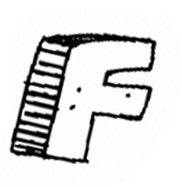
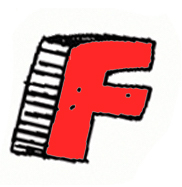
Add files via upload

Changed region(s): [[0.2473, 0.2139, 0.8516, 0.8556]]

diff --git a/link/f.html b/link/f.html
@@ -1,0 +1,13 @@
+<!DOCTYPE html>
+<html>
+<head>
+	<title>F</title>
+</head>
+<body>
+	<h2>F is for Friends</h2>
+	<p>fabric  fabricate  fabrication  fabulous  facade  face  faceless  face-lift  face-saving  facet  facetious  facetiously  face value  facial  facile  facilitate  facilities  facility  facsimile  fact  faction  factor  factory  factual  faculty  fad  fade Fahrenheit  fail  failing  fail-safe  failure  faint  fair  fairground  fairly  fairy  fairy tale  fait accompli  faith  faithful  faithfully  faithfulness  faithless  fake  falcon  fall  fallacious  fallacy  fallen  fall guy  fallible  fallout  false  falsehood  falsetto  falsification  falsify  falsity  falter  faltering  fame  famed  familiar  familiarity  familiarize  familiarly  <a href="family.html">family</a>  family doctor  family name  family planning  family room  family tree  family values  famine  famished  famous  famously  fan  fanatic  fanatical  fanatically  fanaticism  fanciful  fancy  fanfare  fang  fan mail  fanny  fantasize  fantastic  fantastically  fantasy  far  faraway  farce  farcical  fare  Far East  farewell  far-fetched  far-flung  farm  farmer  farmers' market  farmhouse  farming  farmyard  far-off  far-out  far-reaching  farsighted  fart  farther  farthest  fascinate  fascinating  fascination  fascism  fascist  <a href="fashion.html">fashion</a>  fashionable  fashionably  fast  fasten  fastener  fastening  fast food  fast-forward  fastidious  fast lane  fat  fatal  fatalism  fatalistic  fatality  fatally  fate  fated  fateful  Father  father  fatherhood  father-in-law  fatherly fetus  feud  feudal  feudalism  fever  feverish  feverishly  few  fez  fiance  fiancee  fiasco  fiat  fib  fibber  fiber  fiberglass  fibrous  fickle  fiction  fictio\olks  folksy  follicle  follow  follower  following  follow-up  folly  foment  fond  fondle  fondly  fondness  font  food  food poisoning  food processor  food stamp  foodstuff  fool  foolhardy  foolish  foolishly  foolishness  foolproof  foot  footage  football  footbridge  foothill  foothold  footing  footlights  footlocker  footloose  footnote  footpath  footprint  footsie  footstep  <a href="footwear.html">footwear</a>  footwork  for  forage  foray  forbade  forbear  forbearance  forbid  forbidden  forbidding  forbore  forborne  force  forced  force-fed  force-feed  forceful  forcefully  forceps  forcible  forcibly  ford  fore  forearm  foreboding  forecast  foreclose  foreclosure  forefinger  forefront  foreground  forehand  forehead  foreign  foreigner  foreign exchange  foreman  foremost  forensic  foreplay  forerunner  foresaw  foresee  foreseeable  foreseen  foreshadow  foresight  foreskin  forest  forestall  forestry  foretaste  foretell  forethought  foretold  forever  forewarn  foreword  forfeit  forgave  forge  forger  fornicate  fornication  forsake  forsaken  forsook  forswear  forswore  forsworn  fort  forte  forth  forthcoming  forthright  fortieth  fortification  fortify  fortitude  fortress  fortuitous  fortunate  fortunately  fortune  fortune cookie  fortune teller  forty  forum  forward  forwarding address  forward-looking  forwards  forwent  fossil  fossil fuel  fossilize  foster  fought  foul  foul ball  foul play  found  foundation  founder  founding father  foundry  <a href="fountain.html">fountain</a>  fountain pen  four  four-leaf clover  four-letter word  fourteen  fourteenth  fourth  fourthly  Fourth of July  four-wheel drive  fowl  fox  foxhole  foxtrot  foxy  foyer  fracas  fraction  fractional  fractionally  fractious  fracture  fragile  fragility  fragment  fragrance  fragrant  frail  frailty  frame  framework  franc  franchise  frank  frankfurter  frankly  frankness  frantic  frantically  frat  fraternal  fraternity  fraternize  fraud  fraudulent  fraudulently  fraught  fray  freak  freak out  freckle  freckled  free  freebie  freedom  free enterprise  free-for-all  freehand  freelance  freelancer  freeload  freeloader  freely  free market  free-range  free speech  freethinker  freethinking  freeway  freewheeling  free will  freeze  freeze-dried  freezer  freezing  freezing point  freight  freighter  freight train  fries  frieze  frigate  fright  frighten  frightened  frightening  frighteningly  frightful  frigid  frigidity  frill  frilly  fringe  fringe benefit  Frisbee  frisk  frisky  fritter  frivolity  frivolous  frivolously  frizz  frizzy  fro  frog  frolic  from  frond  front  frontage  frontal  frontier  frontiers  front man  frost  frostbite  frostbitten  frosted  frosting  frosty  froth  frothy  frown  froze  frozen  frugal  frugality  frugally  fruit  fruitcake  <a href="football.html">football</a> fruit fly  fruitful  fruition  fruitless  fruitlessly  fruits  fruity  frumpy  frustrate  frustrated  frustrating  frustration  fry  frying pan  ft.  fuck  fucked up  fucker  fucking  fudge  fuel  fugitive  fulcrum  fulfill  fulfilled  fulfilling  fulfillment  full  full-blown  full-fledged  full house  full-length  full moon  full-scale  full-time  fully  fumble  fume  fumes  fumigate  fumigation  fun  function  functional  functionally  fund  fundamental  fundamentalism  fundamentalist  fundamentally  fundamentals  funding  fund-raising  funds  funeral  funeral director  funeral home  fungal  fungi  fungus  funk  funky  funnel  funnel cloud  funnies  funnily  funny  funny bone  fur  furious  furiously  furl  furlong  furnace  furnish  furnished  furnishings  furniture  furor  furrow  furry  further  furthermore  furthest  furtive  furtively  fury  fuse  fuse box  fuselage  fusion  fuss  fussy  futile  futilely  future  future tense  futuristic  fuzz  fuzzy  FYI      
+</p>
+<br>  
+	<a href="index.html"><img src="backbutton.png"></a>  
+</body>
+</html>

diff --git a/link/i.html b/link/i.html
@@ -1,0 +1,13 @@
+<!DOCTYPE html>
+<html>
+<head>
+	<title>I</title>
+</head>
+<body>
+	<h2>I is for Injuries</h2>
+	<p>iceberg  icebox  icebreaker  ice cap  ice-cold  ice cream  ice-cream cone  ice cube  iced  ice hockey  <a href="iceskate.html">ice skate</a>  ice skater  icicle  icing  icky  icon  icy  ID  I'd  ID card  idea  ideal  idealism  idealist  idealistic  idealize  ideally  identical  identically  identical twin  identification  identify  identity  ideological  ideology  idiocy  idiom  idiomatic  idiosyncrasy  idiosyncratic  idiot  idiotic  idiotically  idle  idleness  idly  idol  idolatrous  idolatry  idolize  idyllic  i.e.  if  iffy  igloo  ignite  ignition  ignorance  ignorant  ignore  iguana  ill  I'll  illegal  illegally  illegible  illegibly  illegitimacy  illegitimate  ill-equipped  ill-fated  illicit  illiteracy  illiterate  ill-mannered  illness  illogical  illogically  illuminate  illuminating  illumination  illusion  illusory  illustrate  illustration  illustrative  illustrator  illustrious  I'm  image  imagery  imaginable  imaginary  imagination  imaginative  imaginatively  imagine  imbalance  <a href="imbalanced.html">imbalanced</a>  imbecile  imbibe  imbue  imitate  imitation  imitative  imitator  immaculate  immaculately  immaterial  immature  immaturity  immediacy  immediate  immediately  immense  immensely  immensity  immerse  immersion  immigrant  immigrate  immigration  imminent  imminently  immobile  immobility  immobilize  immoral  immorality  iception  incessant  incessantly  incest  incestuous  inch  incidence  incident  incidental  incidentally  incinerate  incineration  incinerator  incision  incisive  incisor  incite  incitement  inclination  <a href="incline.html">incline</a>  inclined  include  including  inclusion  inclusive  incognito  incoherence  incoherent  incoherently  income  income tax  incoming  incomparable  incompatibility  incompatible  incompetence  incompetent  incompetently  incomplete  incompletely  incomprehensible  inconceivable  inconclusive  inconclusively  incongruity  incofidel  infidelity  infield  infielder  infiltrate  infiltration  infiltrator  infinite  infinitely  infinitesimal  infinitive  infinity  infirm  infirmary  infirmity  inflame  inflamed  inflammable  inflammation  inflammatory  inflatable  inflate  inflated  inflation  inflationary  inflection  inflexibility  <a href="inflexible.html">inflexible</a>  inflexibly  inflict  infliction  in-flight  influence  influential  influenza  influx  info  infomercial  inform  informal  informality  informally  informant  information  information superhighway  information technology  informative  informed  informer  infraction  infrared  infrastructure  infrequent  infrequently  infringe  infringement  infuriate  infuriating  infuriatingly  i initials  initiate  initiation  initiative  inject  injection  injunction  injure  injured  injurious  <a href="injury.html">injury</a>  injustice  ink  inkling  inlaid  inland  in-laws  inlet  in-line skate  inmate  inn  innards  innate  inner  inner city  innermost  inning  innkeeper  innocence  innocent  innocently  innocuous  innovate  innovation  tion  inscrutable  insect  insecticide  inntensity  intensive  intensive care  intensively  intent  intention  intentional  intentionally  intently  inter  interact  interaction  interactive  intercede  intercept  interception  interchange  interchangeable  interchangeably  intercom  interconnect  interconnected  intercontinental  intercourse  interdependence  interdependent  interest  interested  interestingly  interface  interfere  interference  interim  interior interior design  interject  interjection  interlock  interlocking  interloper  interlude  intermarriage  intermarry  intermediary  intermediate  interminable  intermission  intermittent  intermittently  intern  internal  internally  internation irritating  irritation  IRS  is  Islam  Islamic  island  islander  isle  isn't  isolate  isolated  isolation  issue  isthmus  it  Italian  italic  italicize  italics  itch  itchiness  itchy  it'd  item  itemize  itinerant  itinerary  it'll  its  it's  itself  IV  I've  ivory  ivy  Ivy League  
+</p>
+<br>  
+	<a href="index.html"><img src="backbutton.png"></a>  
+</body>
+</html>

diff --git a/link/h.html b/link/h.html
@@ -1,0 +1,12 @@
+<!DOCTYPE html>
+<html>
+<head>
+	<title>H</title>
+</head>
+<body>
+	<h2>H is for Harry Potter</h2>
+	<p>habit  habitable  habitat  habitation  habitual  habitually  hack  hacker  hackneyed  hacksaw  had  haddock  hadn't  hag  haggard  haggle  hail  hailstone  hair  hairbrush  haircut  hairdo  hairdresser  hair dryer hairless hairnet  hairpiece  hair-raising  hairsplitting  hair spray  <a href="harry.html">Harry</a> hairstyle  hairstylist  hairy  hale  half  half-and-half  half-assed  half-baked  half brother  halfhearted  halfheartedly  half-mast  half sister  halftime  halfway  halibut  hall  hallelujah  hallmark  Hall of Fame  hallowed  Halloween  hallucinate  hallucination  hallucinogenic  hallway  halo  halt  halter  halting  halve  halves  ham  hamburger  hamlet  hammer  hammering  hammock  hamper  hamster  hamstring  hands handbag  <a href="happy.html">happy</a> handbook  handcuff  handcuffs  handful  handgun  handicap  handicapped  handiwork  handkerchief  handle  handlebar  handler  handmade  hand-me-down  handout  handpicked  handshake  hands-off  handsome  handsomely  hands-on  handstand rmony  harness  harp  harpist  harpoon  harpsichord  harrowing  harsh  harshly  harshness  harvest  has  has-been  hash  hash browns  hashish  hasn't  hassle  haste  hasten  hastily  hasty  <a href="hats.html">hats</a>  hatch  hatchback  hatchet  hate  hate crime  hated  hateful  hatred  haughtily  haughty  haul  haunches  haunt  haunted  haunting  have  haven  haven't  have to  havoc  hawk  hay  hay fever  haystack  haywire  hazard  hazardous  haze  hazel  hazelnut  hazing  hazy  H-bomb  he  head  <a href="headache.html">headache</a>  headband  head count  headfirst  headgear  headhunter  heading  headland  headlight  headline  headlines  headlong  headmaster  headmistress  head-on  headphones  headquarters  headrest  headroom  heads  head start  headstone  headstrong  head-to-head  <a href="hermione.html">Hermione</a> headway  headwind  heady  heal  healer  health  health care  health club  health food  healthful  healthily  healthy  heap  heaping  hear  heard  hearing  hearing aid  hearing-ih  high tide  highway  highway patrol  hijack  hijacker  hijacking  hike  hiker  hilarious  hilariously  hilarity  hill  hillbilly  hillside  hilltop  hilly  hilt  him  himself  hind  hinder  hindquarters  hindrance  hindsight  Hindu  Hinduism  hinge  hint  hinterland  hip  hip-hop  hippie hippo  hippopotami  hippopotamus  hire  his  Hispanic  hiss  historian  historic  historical  historically  history  histrionic  histrionics  <a href="hit.html">hit</a>  hit-and-run  hitch  hitchhike  hitchhiker  hither  hitherto  hit man  hit-or-miss  HIV  hive  hives  home  homecoming  home economics  homeland  homeless  homelessness  home loan  homely  homemade  homemaker  homeopathic  homeopathy  homeowner  home page  home plate  homer  homeroom  home run <a href="hold.html">hold</a>  homesick  homesickness  homestead  hometown  homeward  homework  homey  homicidal  homicide  homogeneity  homogeneous  homogenize  homogenized  homonym  homosexual  homosexuality  honcho  hone  honest  honestly  honesty  honey  honeycomb  honeymoon  honeysuckle  honk  hon hp:  HQ  hr.  hrs.  hub  hubbub  hubcap  huddle  huddled  hue  huff  huffy  <a href="hug.html">hug</a>  huge  hugely  huh  hulk  hull  hullabaloo  hum  human  human being  humane  humanely  humanism  humanist  humanitarian  humanitarianism   human resources  human rights  humble  humbling  humbly  humdrum  humid  humidify  humidity  humiliate  humiliated  humiliating  humiliation  humility  humor  humorist  <a href="humorous.html">humorous</a>  humorously  hump  hunch  hunchback  hundred  hundredth  hung  hunger  hunger strike  hungrily  <a href="hungry.html">hungry</a>  hunk  hunker  hunt  hunter  hunting  hurdle  hurdler  hurdles  hurl  hurrah  hurricane  hurried  hurriedly  hurry  hurt  hurtful  hurtle  h
+<br>  
+	<a href="index.html"><img src="backbutton.png"></a>  
+</body>
+</html>

diff --git a/link/index.html b/link/index.html
@@ -5,8 +5,9 @@
 </head>
 <body>
 	<h1>GIF Alphabet</h1>
-	<h3>Pick any letter.</h3>
-	<a href="a.html"><img src="a.jpg"></a> <a href="b.html"><img src="b.jpg"></a> <a href="c.html"><img src="c.jpg"></a> <a href="d.html"><img src="d.jpg"></a> <a href="e.html"><img src="e.jpg"></a> <a href="f.html"><img src="f.jpg"></a> <a href="g.html"><img src="g.jpg"></a> <a href="h.html"><img src="h.jpg"></a> <a href="i.html"><img src="i.jpg"></a> <a href="j.html"><img src="j.jpg"></a> <a href="k.html"><img src="k.jpg"></a> <a href="l.html"><img src="l.jpg"></a> <a href="m.html"><img src="m.jpg"></a>
+	<h3>Pick any colored letter.</h3>
+	<p> <a href="a.html"><img src="a.jpg"></a> <a href="b.html"><img src="b.jpg"></a> <a href="c.html"><img src="c.jpg"></a> <a href="d.html"><img src="d.jpg"></a> <a href="e.html"><img src="e.jpg"></a> <a href="f.html"><img src="f.jpg"></a> <img src="g.jpg"><a href="h.html"><img src="h.jpg"></a> <a href="i.html"><img src="i.jpg"></a> <img src="j.jpg"> <img src="k.jpg"> <img src="l.jpg"> <img src="m.jpg"> <img src="n.jpg">
+	<a href="o.html"><img src="o.jpg"></a> <img src="p.jpg"> <img src="q.jpg"> <img src="r.jpg"> <a href="s.html"><img src="s.jpg"></a> <img src="t.jpg"> <img src="u.jpg"> <img src="v.jpg"> <a href="w.html"><img src="w.jpg"></a> <img src="x.jpg"> <img src="y.jpg"> <img src="z.jpg"> </p>
 
 </body>
 </html>

diff --git a/link/imbalanced.html b/link/imbalanced.html
@@ -1,0 +1,13 @@
+<!DOCTYPE html>
+<html>
+<head>
+	<title>Imbalanced</title>
+</head>
+<body>
+	<h2>Imbalanced</h2>
+	<img src="imbalanced.gif">
+	<p>See related: </p>
+	<a href="i.html"><img src="backbutton.png"></a>
+
+</body>
+</html>

diff --git a/link/inflexible.html b/link/inflexible.html
@@ -1,0 +1,13 @@
+<!DOCTYPE html>
+<html>
+<head>
+	<title>Inflexible</title>
+</head>
+<body>
+	<h2>Inflexible</h2>
+	<img src="inflexible.gif">
+	<p>See related: </p>
+	<a href="i.html"><img src="backbutton.png"></a>
+
+</body>
+</html>

diff --git a/link/iceskate.html b/link/iceskate.html
@@ -1,0 +1,13 @@
+<!DOCTYPE html>
+<html>
+<head>
+	<title>Ice Skate</title>
+</head>
+<body>
+	<h2>Ice Skate</h2>
+	<img src="iceskate.gif">
+	<p>See related: </p>
+	<a href="i.html"><img src="backbutton.png"></a>
+
+</body>
+</html>

diff --git a/link/football.html b/link/football.html
@@ -1,0 +1,13 @@
+<!DOCTYPE html>
+<html>
+<head>
+	<title>Football</title>
+</head>
+<body>
+	<h2>Football</h2>
+	<img src="football.gif">
+	<p>See related: </p>
+	<a href="f.html"><img src="backbutton.png"></a>
+
+</body>
+</html>

diff --git a/link/footwear.html b/link/footwear.html
@@ -1,0 +1,13 @@
+<!DOCTYPE html>
+<html>
+<head>
+	<title>Footwear</title>
+</head>
+<body>
+	<h2>Footwear</h2>
+	<img src="footwear.gif">
+	<p>See related: </p>
+	<a href="f.html"><img src="backbutton.png"></a>
+
+</body>
+</html>

diff --git a/link/fountain.html b/link/fountain.html
@@ -1,0 +1,13 @@
+<!DOCTYPE html>
+<html>
+<head>
+	<title>Fountain</title>
+</head>
+<body>
+	<h2>Fountain</h2>
+	<img src="fountain.gif">
+	<p>See related: </p>
+	<a href="f.html"><img src="backbutton.png"></a>
+
+</body>
+</html>

diff --git a/link/headache.html b/link/headache.html
@@ -1,0 +1,13 @@
+<!DOCTYPE html>
+<html>
+<head>
+	<title>Headache</title>
+</head>
+<body>
+	<h2>Headache</h2>
+	<img src="headache.gif">
+	<p>See related: </p>
+	<a href="h.html"><img src="backbutton.png"></a>
+
+</body>
+</html>

diff --git a/link/hermione.html b/link/hermione.html
@@ -1,0 +1,13 @@
+<!DOCTYPE html>
+<html>
+<head>
+	<title>Hermione</title>
+</head>
+<body>
+	<h2>Hermione</h2>
+	<img src="hermione.gif">
+	<p>See related: </p>
+	<a href="h.html"><img src="backbutton.png"></a>
+
+</body>
+</html>
